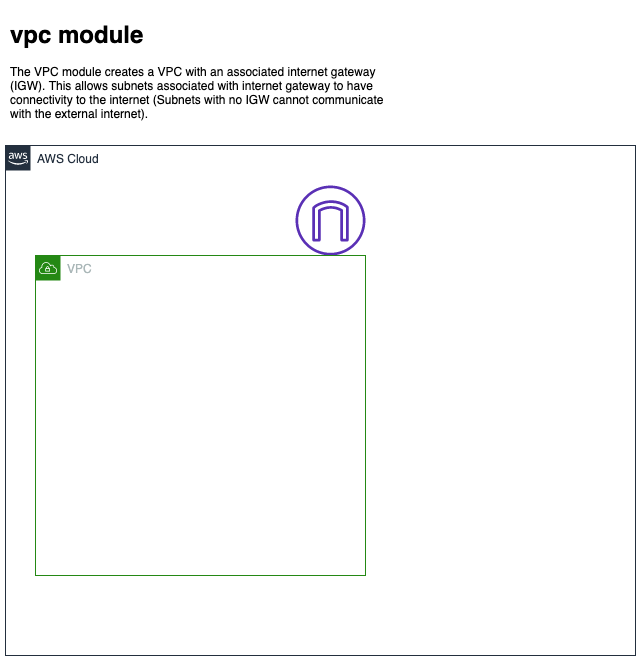
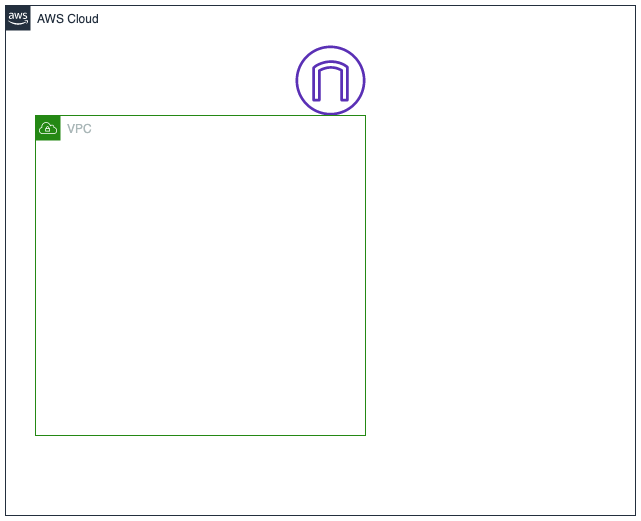
move text from diagram to read me

diff --git a/modules/vpc/README.md b/modules/vpc/README.md
@@ -3,5 +3,7 @@ Creates the following AWS resources:
 1. VPC
 2. Internet gateway
 
+The VPC module creates a VPC with an associated internet gateway (IGW). This allows subnets associated with internet gateway to have connectivity to the internet (Subnets with no IGW cannot communicate with the external internet).
+
 # Resource diagram
 ![Image of Networking diagram](./documentation/vpc.png)
